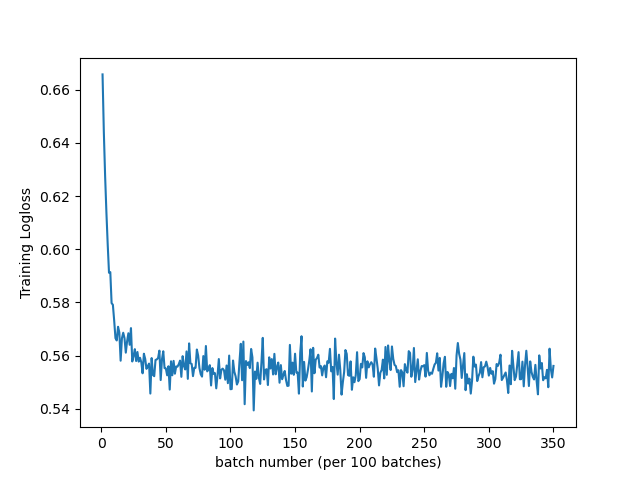
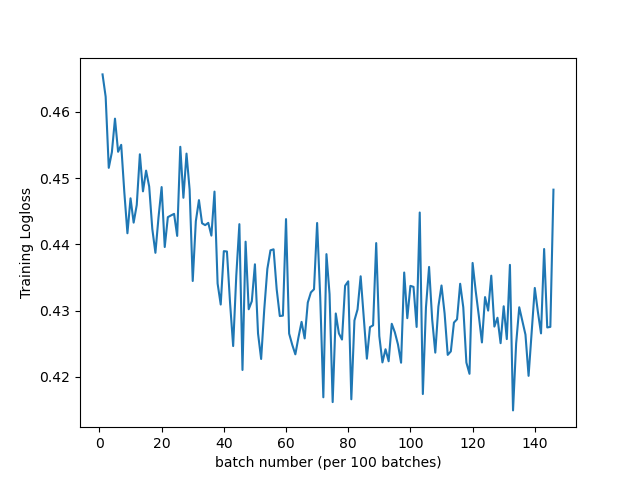
rectify oneembedding init, auc is 0.81146, waiting for regl2

diff --git a/RecommenderSystems/pnn/pnn_train_eval.py b/RecommenderSystems/pnn/pnn_train_eval.py
@@ -9,7 +9,7 @@ import psutil
 import warnings
 import oneflow as flow
 import oneflow.nn as nn
-from sklearn.metrics import roc_auc_score
+from sklearn.metrics import roc_auc_score, log_loss
 from petastorm.reader import make_batch_reader
 import matplotlib.pyplot as plt
 
@@ -36,7 +36,7 @@ def get_args(print_args=True):
     parser.add_argument("--disable_fusedmlp", default=False, help="disable fused MLP or not")
     parser.add_argument("--embedding_vec_size", type=int, default=16)
     parser.add_argument("--dnn", type=int_list, default="1000,1000,1000,1000,1000")
-    parser.add_argument("--net_dropout", type=float, default=0.0)
+    parser.add_argument("--net_dropout", type=float, default=0.2)
     parser.add_argument("--embedding_regularizer", type=float, default=None)
     parser.add_argument("--net_regularizer", type=float, default=None)
     parser.add_argument("--max_gradient_norm", type=float, default=10.0)
@@ -44,7 +44,7 @@ def get_args(print_args=True):
     parser.add_argument("--lr_factor", type=float, default=0.1)
     parser.add_argument("--min_lr", type=float, default=1.0e-6)
     parser.add_argument("--learning_rate", type=float, default=0.001)
-
+    
     parser.add_argument("--eval_batches", type=int, default=1612, help="number of eval batches")
     parser.add_argument("--eval_batch_size", type=int, default=10000)
     parser.add_argument("--train_batch_size", type=int, default=10000)
@@ -208,6 +208,7 @@ class OneEmbedding(nn.Module):
         table_size_array,
         store_type,
         cache_memory_budget_mb,
+        size_factor,
     ):
         assert table_size_array is not None
         vocab_size = sum(table_size_array)
@@ -216,9 +217,11 @@ class OneEmbedding(nn.Module):
         # TODO: embedding initialization uniform2normal
         tables = [
             flow.one_embedding.make_table(
-                flow.one_embedding.make_uniform_initializer(low=-scale, high=scale)
+                # flow.one_embedding.make_uniform_initializer(low=-scale, high=scale)
+                flow.one_embedding.make_normal_initializer(mean=0.0, std=1e-4)
             )
-            for scale in scales
+            # for scale in scales
+            for _ in range(len(table_size_array))
         ]
         # tables = [
         #     flow.one_embedding.make_table(
@@ -229,21 +232,24 @@ class OneEmbedding(nn.Module):
         if store_type == "device_mem":
             store_options = flow.one_embedding.make_device_mem_store_options(
                 persistent_path=persistent_path, 
-                capacity=vocab_size
+                capacity=vocab_size,
+                size_factor=size_factor,
             )
         elif store_type == "cached_host_mem":
             assert cache_memory_budget_mb > 0
             store_options = flow.one_embedding.make_cached_host_mem_store_options(
                 cache_budget_mb=cache_memory_budget_mb,
                 persistent_path=persistent_path,
-                capacity=vocab_size
+                capacity=vocab_size,
+                size_factor=size_factor,
             )
         elif store_type == "cached_ssd":
             assert cache_memory_budget_mb > 0
             store_options = flow.one_embedding.make_cached_ssd_store_options(
                 cache_budget_mb=cache_memory_budget_mb,
                 persistent_path=persistent_path,
-                capacity=vocab_size
+                capacity=vocab_size,
+                size_factor=size_factor,
             )
         else:
             raise NotImplementedError("not support", store_type)
@@ -394,22 +400,22 @@ class InnerProductLayer(nn.Module):
         self.register_buffer("lj", lj)
         
 
-    def forward(self, x:flow.Tensor) -> flow.Tensor:
-        # x - dense fields, ly = embedding
-        # if self.interaction_type == 'cat':
-        #     R = flow.cat([x, ly], dim=1)
-        if self.interaction_type == 'dot': # slice
-            (batch_size, fields, d) = x.shape
-            T = flow.cat([x], dim=1).view((batch_size, -1, d))
-            # perform a dot product
-            Z = flow.matmul(T, T, transpose_b=True)
-            print("Z.shape: ", Z.shape)
-            Zflat = Z[:, self.li, self.lj]
-            print("Zflat.shape: ", Zflat.shape)
-            R = flow.cat([Zflat], dim=1)       
-        else:
-            assert 0, 'dot or cat'
-        return R
+    # def forward(self, x:flow.Tensor) -> flow.Tensor:
+    #     # x - dense fields, ly = embedding
+    #     # if self.interaction_type == 'cat':
+    #     #     R = flow.cat([x, ly], dim=1)
+    #     if self.interaction_type == 'dot': # slice
+    #         (batch_size, fields, d) = x.shape
+    #         T = flow.cat([x], dim=1).view((batch_size, -1, d))
+    #         # perform a dot product
+    #         Z = flow.matmul(T, T, transpose_b=True)
+    #         print("Z.shape: ", Z.shape)
+    #         Zflat = Z[:, self.li, self.lj]
+    #         print("Zflat.shape: ", Zflat.shape)
+    #         R = flow.cat([Zflat], dim=1)       
+    #     else:
+    #         assert 0, 'dot or cat'
+    #     return R
 
     def forward(self, x:flow.Tensor) -> flow.Tensor:
         # x - dense fields, ly = embedding
@@ -468,6 +474,7 @@ class PNNModule(nn.Module):
         cache_memory_budget_mb=8192,
         interaction_type = 'dot',
         interaction_itself = False,
+        dropout=0.2,
     ):
         super(PNNModule, self).__init__()
 
@@ -477,7 +484,8 @@ class PNNModule(nn.Module):
             persistent_path=persistent_path,
             table_size_array=table_size_array,
             store_type=one_embedding_store_type,
-            cache_memory_budget_mb=cache_memory_budget_mb
+            cache_memory_budget_mb=cache_memory_budget_mb,
+            size_factor=3,
         )
 
         self.inner_product_layer = InnerProductLayer(interaction_type, interaction_itself, num_sparse_fields + num_sparse_fields)
@@ -508,6 +516,7 @@ def make_pnn_module(args):
         table_size_array=args.table_size_array,
         one_embedding_store_type=args.store_type,
         cache_memory_budget_mb=args.cache_memory_budget_mb,
+        dropout=args.net_dropout,
     )
     return model
 
@@ -526,12 +535,12 @@ class PNNValGraph(flow.nn.Graph):
 
 class PNNTrainGraph(flow.nn.Graph):
     def __init__(
-        self, pnn_module, loss, optimizer, lr_scheduler=None, grad_scaler=None, amp=False, max_norm=10,
+        self, pnn_module, loss, optimizer, lr_scheduler=None, grad_scaler=None, amp=False
     ):
         super(PNNTrainGraph, self).__init__()
         self.module = pnn_module
         self.loss = loss
-        self.max_norm = max_norm
+        # self.max_norm = max_norm
         self.add_optimizer(optimizer, lr_sch=lr_scheduler)
         self.config.allow_fuse_model_update_ops(True)
         self.config.allow_fuse_add_to_output(True)
@@ -603,7 +612,7 @@ def train(args):
         save_model("initial_checkpoint")
 
     # TODO: clip gradient norm
-    opt = flow.optim.SGD(pnn_module.parameters(), lr=args.learning_rate)
+    # opt = flow.optim.SGD(pnn_module.parameters(), lr=args.learning_rate)
     # opt = flow.optim.SGD(
     #         [
     #             {
@@ -614,6 +623,10 @@ def train(args):
     #             }
     #         ],
     #     )
+
+    opt = flow.optim.Adam(pnn_module.parameters(), lr=args.learning_rate)
+
+
     lr_scheduler = make_lr_scheduler(args, opt)
     loss = flow.nn.BCEWithLogitsLoss(reduction="none").to("cuda")
 
@@ -654,13 +667,13 @@ def train(args):
 
             if step % batches_per_epoch == 0:
                 epoch += 1
-                auc = eval(args, eval_graph, step, epoch)
+                auc, logloss = eval(args, eval_graph, step, epoch)
                 if args.save_model_after_each_eval:
                     save_model(f"step_{step}_val_auc_{auc:0.5f}")
 
                 stop_training, best_metric, stopping_steps = early_stop(
                     epoch, 
-                    logs={'auc': auc}, 
+                    logs={'auc': auc, 'logloss': logloss}, 
                     best_metric=best_metric, 
                     stopping_steps=stopping_steps, 
                     patience=args.patience, 
@@ -716,20 +729,22 @@ def eval(args, eval_graph, cur_step=0, epoch=0):
         auc_start_time = time.time()
         auc = roc_auc_score(labels, preds)
         auc_time = time.time() - auc_start_time
-
+        log_loss_start_time = time.time()
+        logloss = log_loss(labels, preds, eps=1e-7)
+        log_loss_time = time.time() - log_loss_start_time
         host_mem_mb = psutil.Process().memory_info().rss // (1024 * 1024)
         stream = os.popen("nvidia-smi --query-gpu=memory.used --format=csv")
         device_mem_str = stream.read().split("\n")[rank + 1]
 
         strtime = time.strftime("%Y-%m-%d %H:%M:%S")
         print(
-            f"Rank[{rank}], Epoch {epoch}, Step {cur_step}, AUC {auc:0.5f}, Eval_time {eval_time:0.2f} s, "
-            + f"AUC_time {auc_time:0.2f} s, Eval_samples {labels.shape[0]}, "
+            f"Rank[{rank}], Epoch {epoch}, Step {cur_step}, AUC {auc:0.5f}, LogLoss {logloss:0.5f}, Eval_time {eval_time:0.2f} s, "
+            + f"AUC_time {auc_time:0.2f} s, LogLoss_time {log_loss_time: 0.2f} s, Eval_samples {labels.shape[0]}, "
             + f"GPU_Memory {device_mem_str}, Host_Memory {host_mem_mb} MiB, {strtime}"
         )
 
     flow.comm.barrier()
-    return auc
+    return auc, logloss
 
 
 def plot_train_curve(args, train_losses):
